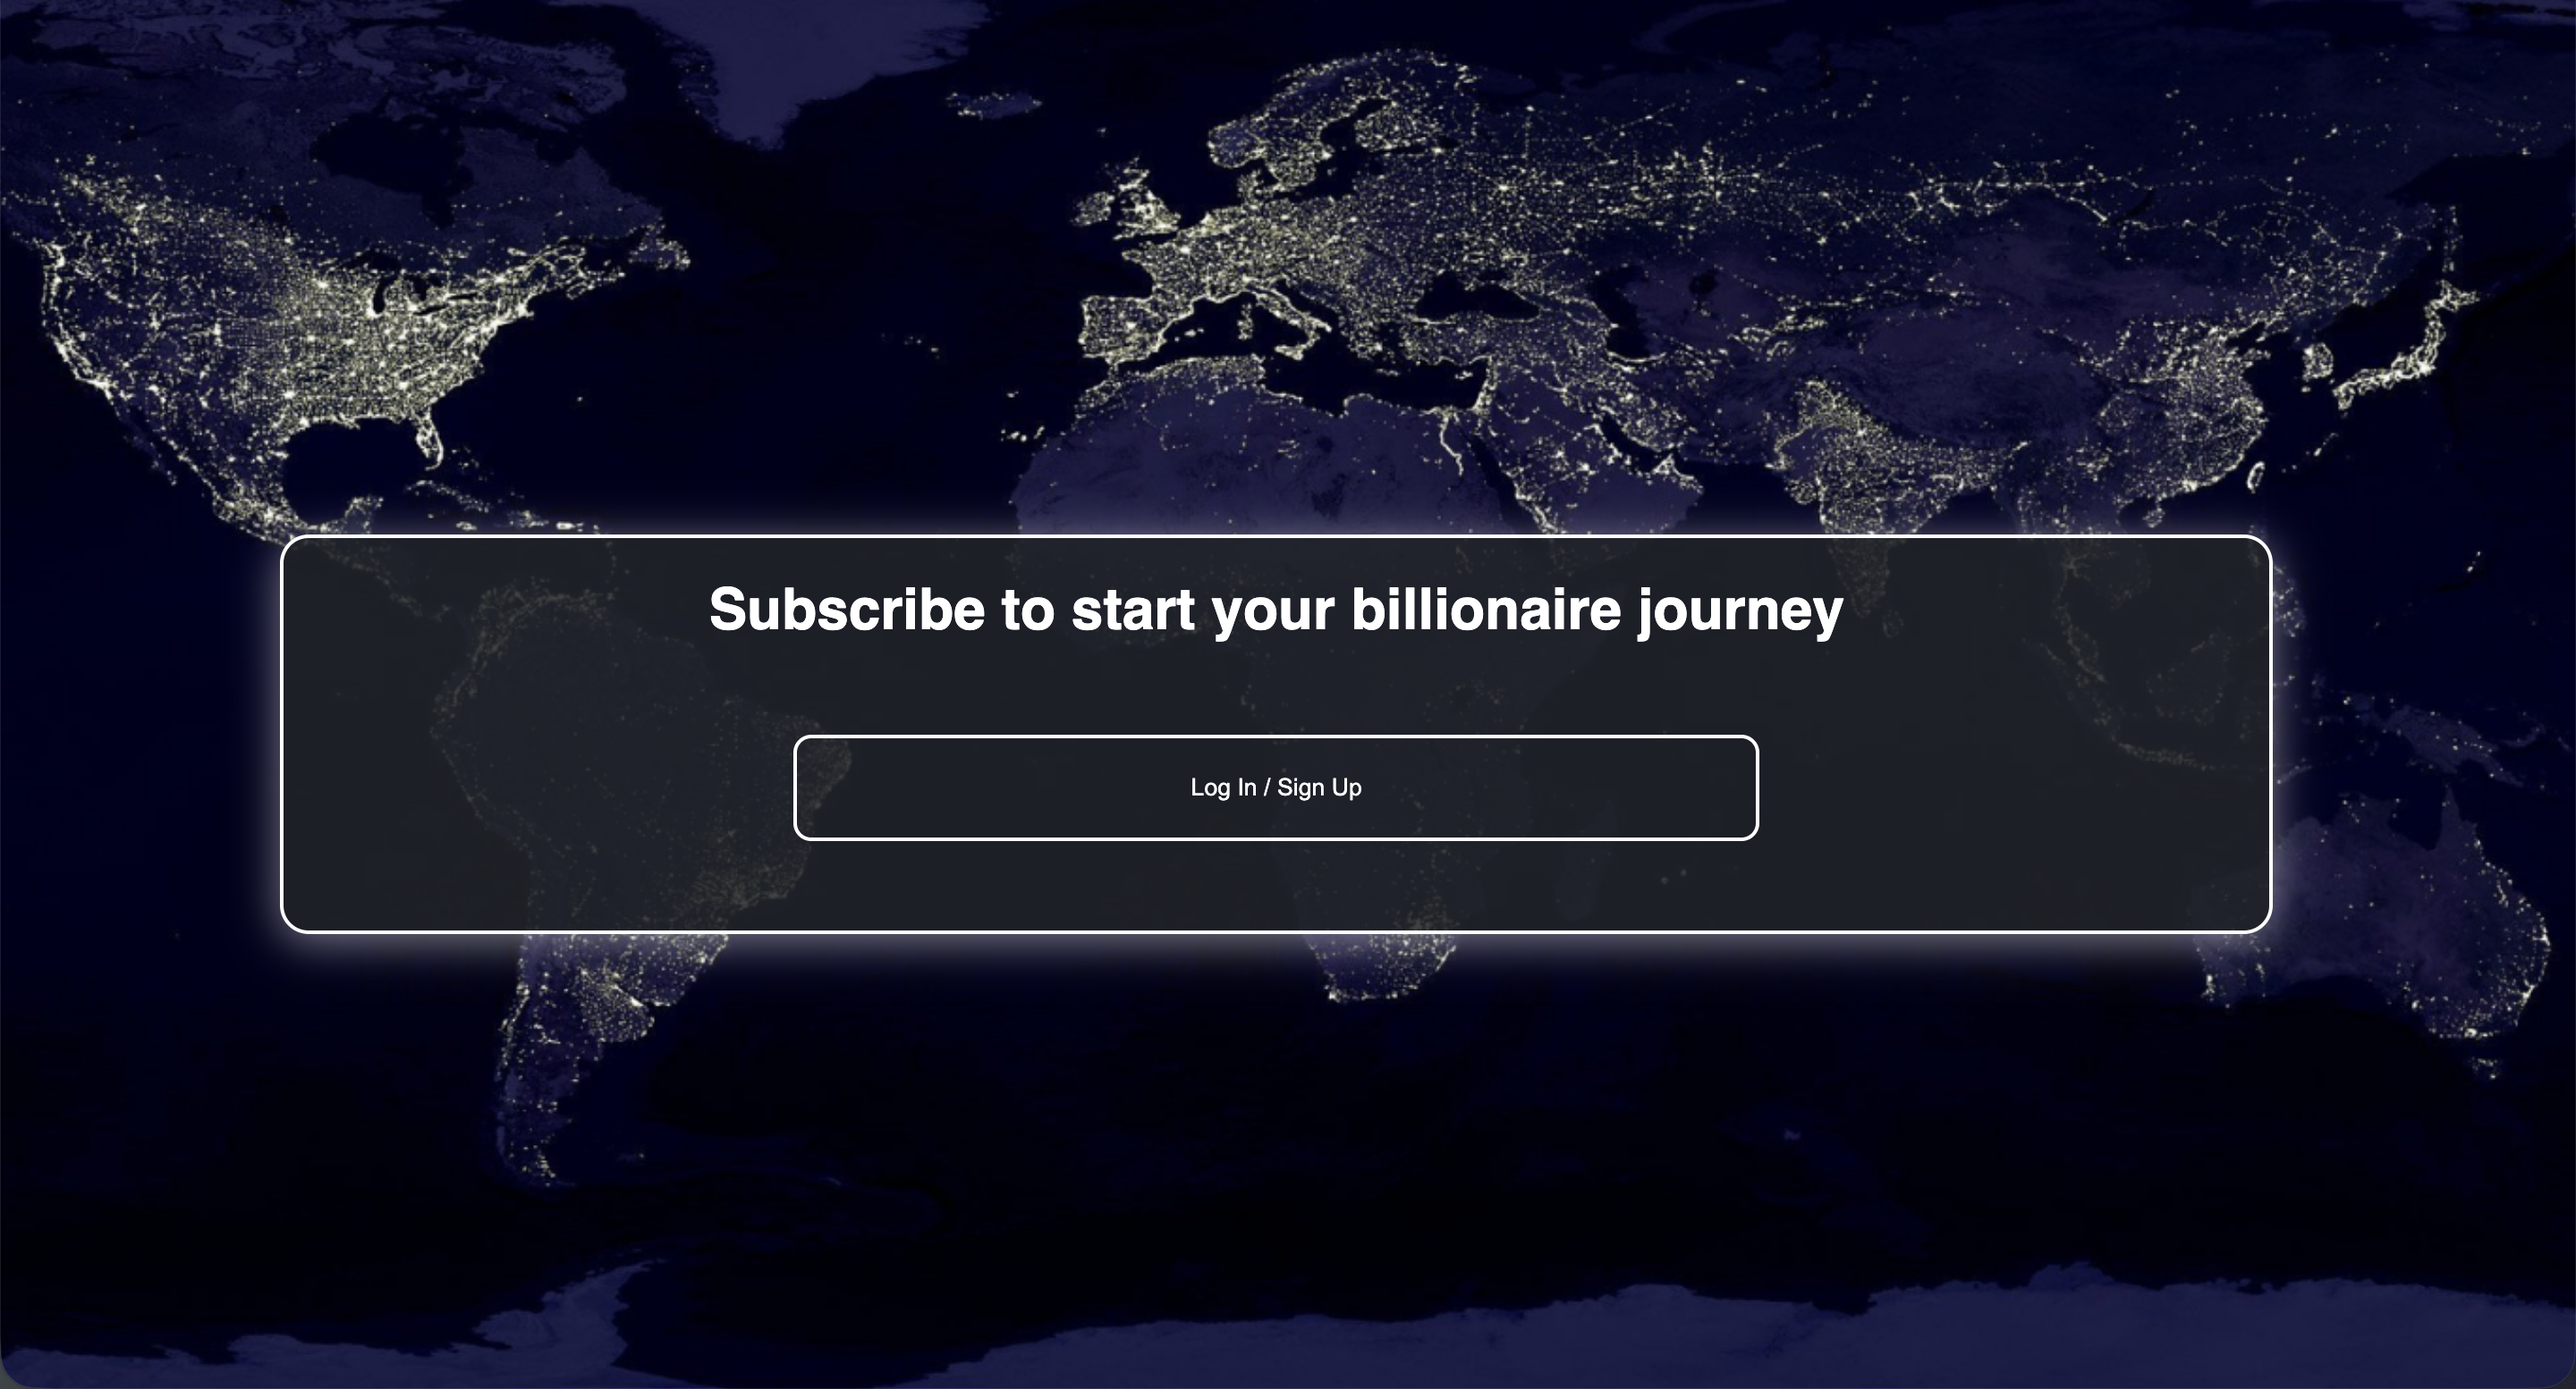
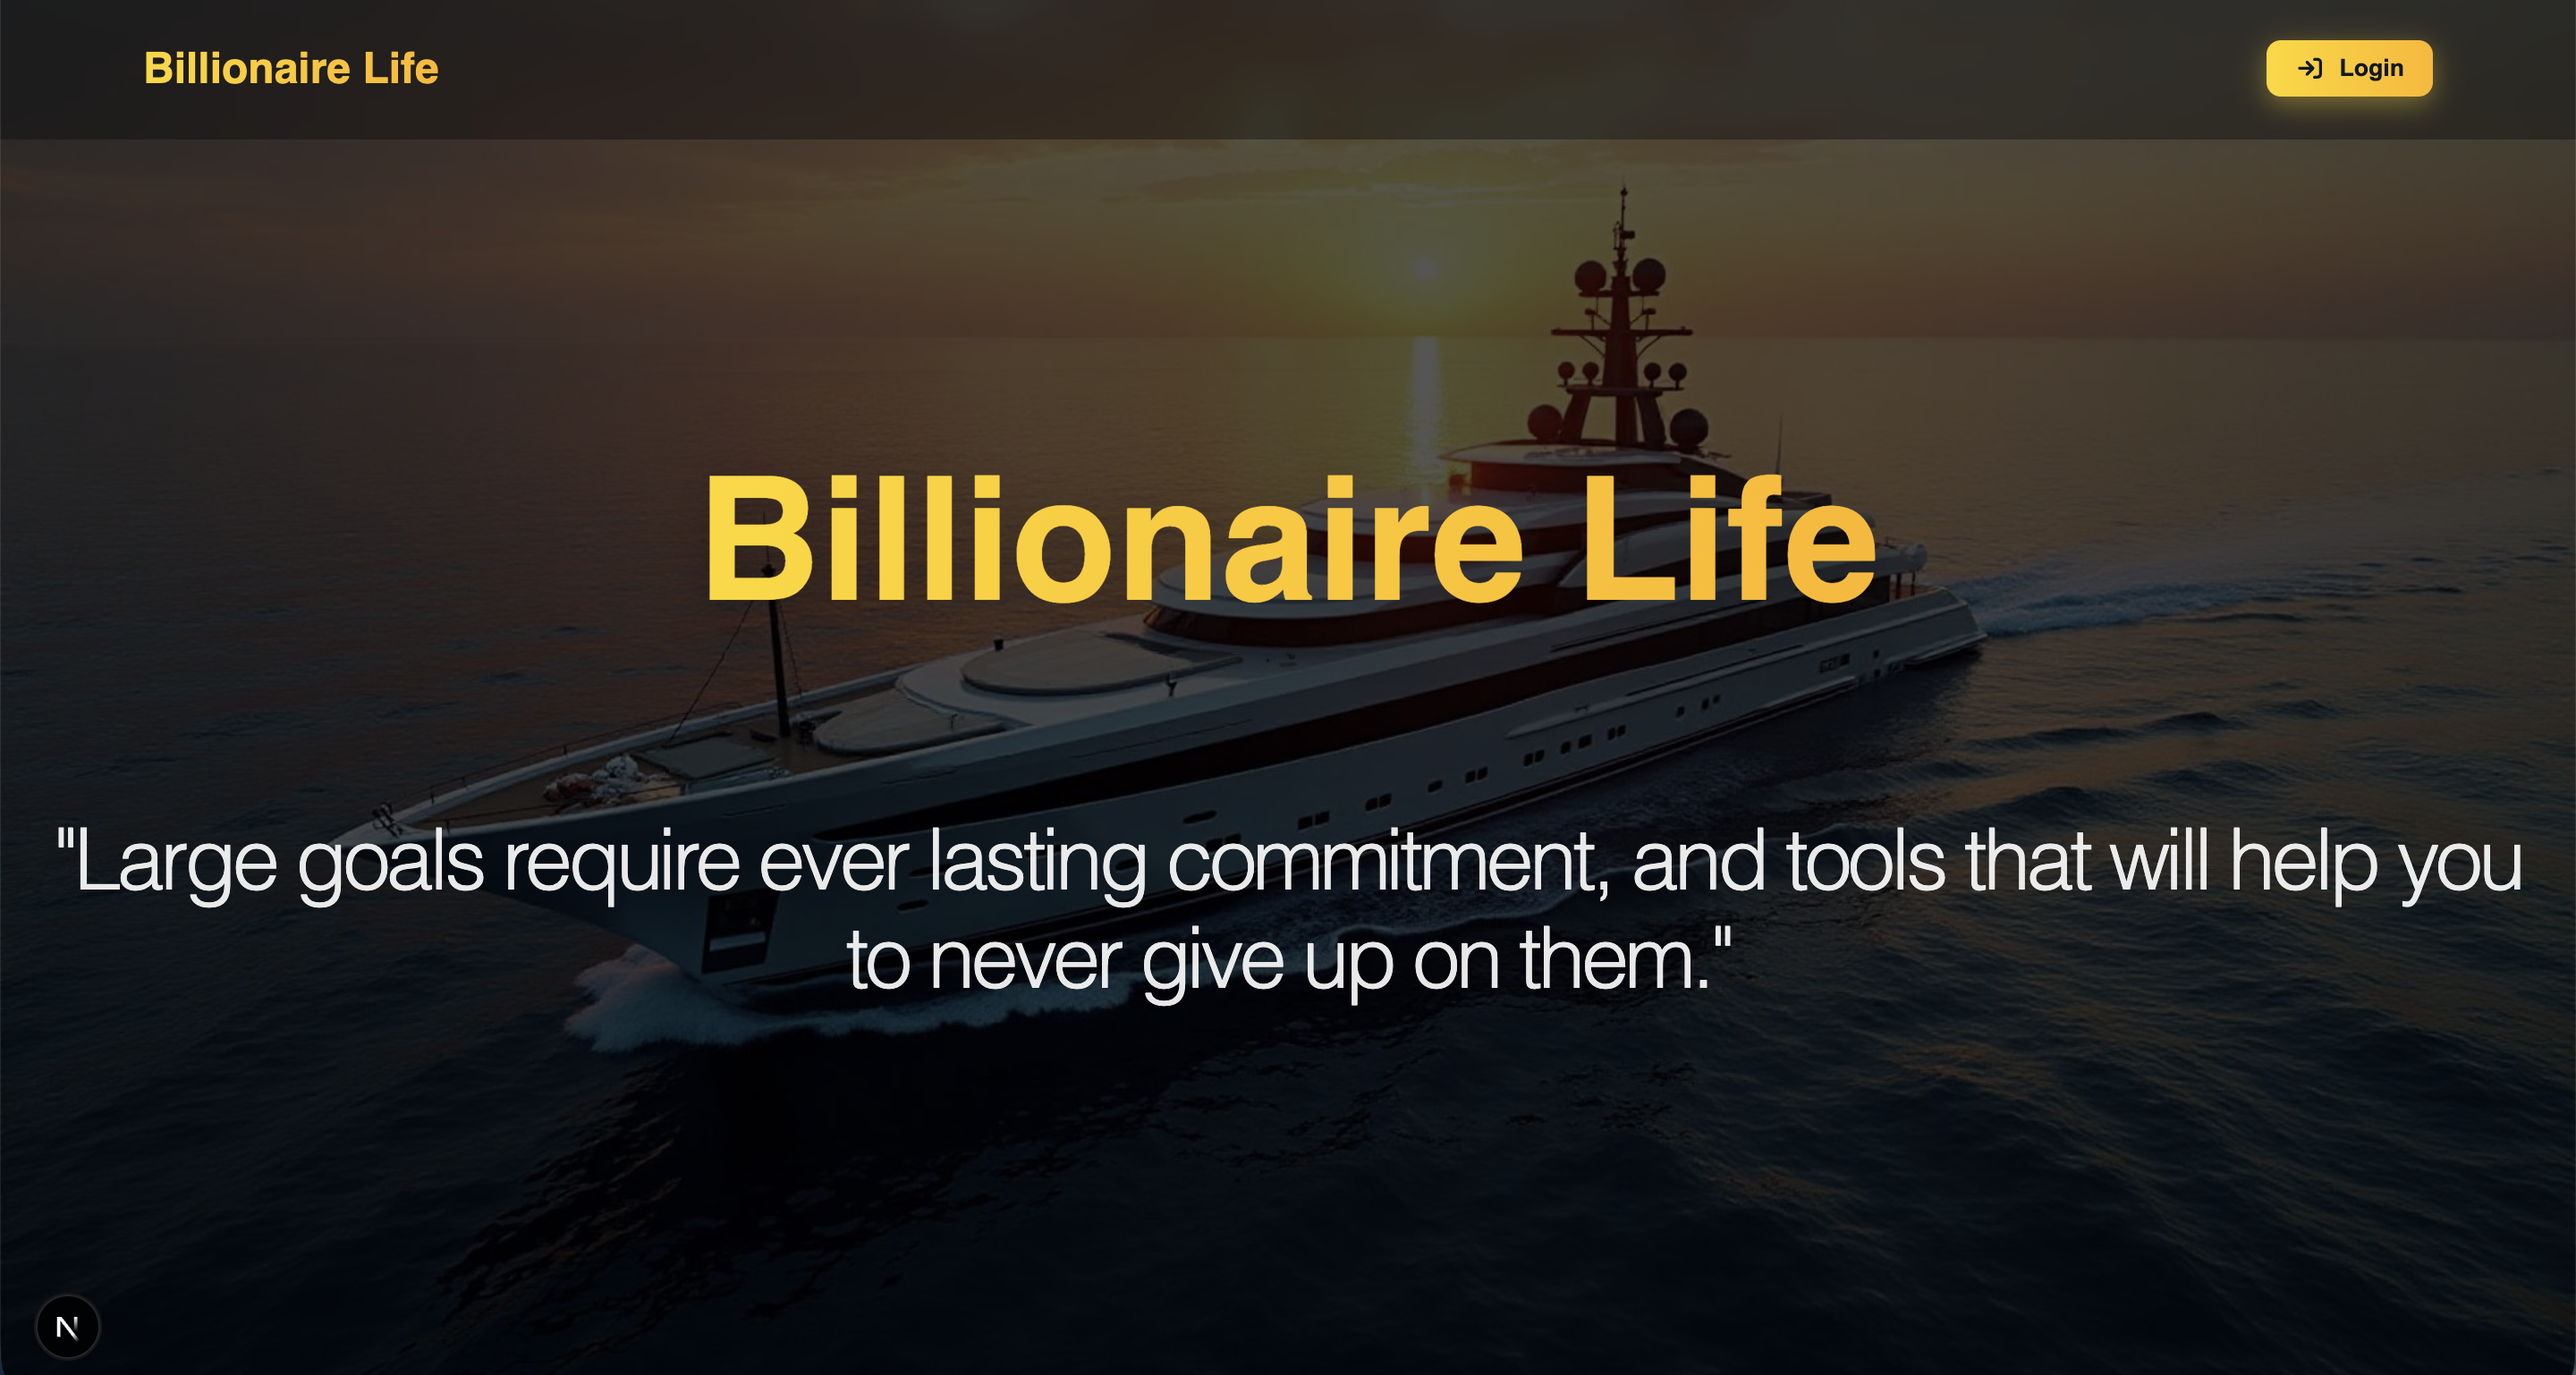
Updated the image of the financial tool to be up to date

diff --git a/Portfolio_Page.html b/Portfolio_Page.html
@@ -161,15 +161,24 @@
         repoUrl: "https://github.com/thelocoman/Portfolio-Page",
         imagesrc: 'Portfolio_Page.png',
         id:0,
-      },      
+      },  
       {
-        title: "Secure Authentication (In-Progress)",
+        title: "Personal Finance Tool",
+        description: "A personal development financial tool, that helps users to set goals, plan financial transactions, collaborate all in one comprehensive and intuitive space",
+        tech: ["HTML", "CSS", "JS", "AWS", "Express", "NodeJS", "PostgreSQL"],
+        liveUrl: "https://www.billionairelife.online/?v=0.0.2",
+        repoUrl: null,
+        imagesrc: 'BillionaireLife.png',
+        id:1,
+      },    
+      {
+        title: "Authentication",
         description: "A full-stack application demonstrating secure user authentication and session management using OAuth 2.0.",
         tech: ["React", "Node.js", "Express", "PostgreSQL", "OAuth 2.0"],
-        liveUrl: "#",
-        repoUrl: "https://github.com/thelocoman/Authentication.git",
+        liveUrl: "https://peopleflow.online/",
+        repoUrl: "https://github.com/thelocoman/People-Flow",
         imagesrc: 'Authentication.png',
-        id:1,
+        id:2,
       },
       {
         title: "AI-Powered Content Summarizer  (In-Progress)",
@@ -178,7 +187,7 @@
         liveUrl: "#",
         repoUrl: "https://github.com/thelocoman/Portfolio-Page",
         imagesrc: 'In_Progress.png',
-        id:2,
+        id:3,
       },
       {
         title: "E-commerce Backend  (In-Progress)",
@@ -187,15 +196,6 @@
         liveUrl: "#",
         repoUrl: "https://github.com/thelocoman/Portfolio-Page",
         imagesrc: 'In_Progress.png',
-        id:3,
-      },
-      {
-        title: "Personal Finance Tool (In-Progress)",
-        description: "A personal development financial tool, that helps users to set goals, plan financial transactions, collaborate all in one comprehensive and intuitive space",
-        tech: ["HTML", "CSS", "JS", "AWS", "Express", "NodeJS", "PostgreSQL"],
-        liveUrl: "https://www.billionairelife.online/?v=0.0.2",
-        repoUrl: null,
-        imagesrc: 'BillionaireLife.png',
         id:4,
       },
     ];
